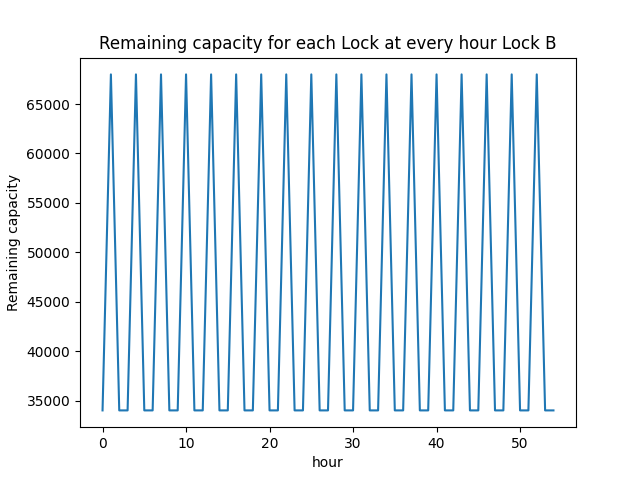
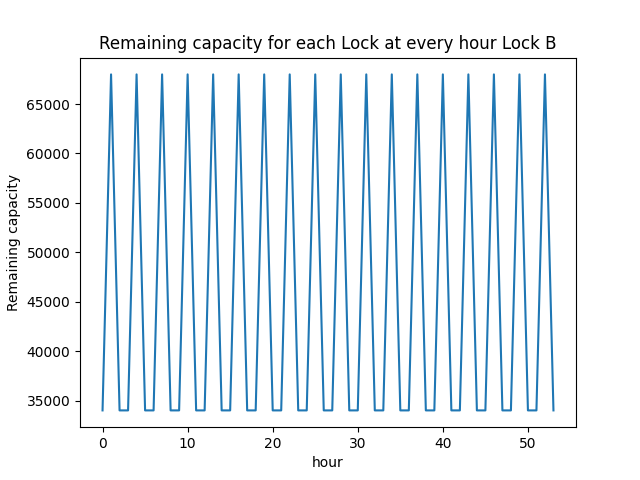
fix for the lock

diff --git a/model/atomic_devs/lock.py b/model/atomic_devs/lock.py
@@ -9,15 +9,15 @@ START_DELAY = 30
 # Define the state of the Lock as a structured object
 class LockState:
     def __init__(self, lock_id, washing_duration, lock_shift_interval, open_close_duration, surface_area):
-        # self.water_level = "LOW"
-        # self.gate1_state = "CLOSED"
-        # self.gate2_state = "OPEN"
-
+        # water level 1=High, 0=Low
         self.water_level = 0
+        # gate 0=closed, 1=open
         self.gate_sea = 0
         self.gate_dock = 1
 
         self.lock_id = lock_id
+
+        # stats for this lock
         self.washing_duration = washing_duration
         self.lock_shift_interval = lock_shift_interval
         self.open_close_duration = open_close_duration
@@ -25,41 +25,49 @@ class LockState:
         self.duration = (2 * self.open_close_duration) + washing_duration
         self.remaining_time = self.duration
         self.time_open = self.lock_shift_interval - self.duration
+        # Make sure all the ships can leave
         self.max_ship_in_lock = (self.time_open/(START_DELAY*HOUR_TO_SECOND))-1
+        # timer that the ship stays open - the time ships were leaving
         self.time_open_used = -1
 
 
         self.remaining_capacity = self.surface_area
 
-
+        # list to keep track of vessels everywhere
         self.waiting_queue_sea = []
         self.waiting_queue_dock = []
         self.in_lock = []
         self.leaving = []
+        # a ship that leaves the lock
         self.left = None
         self.leaving_bool = False
 
-        # List of request to send
-        self.requests = []
-
+        # total time
         self.current_time = 0
+        # statistic idle time
         self.idle_time = 0
+        # amount of empty itterations
         self.empty_itteration = 0
+        # the lock is empty at the moment
         self.empty = True
+        # chronometer that starts running when the lock is empty
         self.start_empty = 0
+        # remainig cappacity this hour
         self.hourly_remainig_cappacity = -1
+        # this update is because of the hour change
         self.hour_update =True
-
+        # time until the next hour change
         self.hour_remaining = 1
-        self.closegate = False
+
+
 class Lock(AtomicDEVS):
     def __init__(self, lock_id, washing_duration, lock_shift_interval, open_close_duration, surface_area):
         AtomicDEVS.__init__(self, "Lock")
         self.state = LockState(lock_id, washing_duration, lock_shift_interval, open_close_duration, surface_area)
-
+        # ports for vessels that enter the lock from the sea and travel to the dock
         self.in_port_sea = self.addInPort("in_port_sea")
         self.out_port_dock = self.addOutPort("out_port_dock")
-
+        # ports for vessels that enter the lock from the dock and travel to the sea
         self.in_port_dock = self.addInPort("in_port_dock")
         self.out_port_sea = self.addOutPort("out_port_sea")
 
@@ -74,48 +82,37 @@ class Lock(AtomicDEVS):
             self.state.hour_update = False
             self.state.current_time += self.state.hour_remaining
             self.state.remaining_time -= self.state.hour_remaining
-            if self.state.remaining_time < 0 or self.state.hour_remaining < 0:
-                print("aaaaaaaaaaaaaaaaaaaaaaaaaaaaaaaaaaaaa")
 
             if self.state.time_open_used != -1:
                 self.state.time_open_used -= self.state.hour_remaining
-                if self.state.time_open_used < 0 and self.state.time_open_used != -1:
-                    print("bbbbbbbbbbbbbbbbbbbbbbbbbbbbbbbbbbbbbbbbbbbbbb")
             return self.state
         # else:
         #     self.state.hour_remaining -= self.state.remaining_time
 
         # ships are leaving takeing 30s each
         self.state.current_time += self.state.remaining_time
-        if self.state.remaining_time < 0 or self.state.hour_remaining<0:
-            print("aaaaaaaaaaaaaaaaaaaaaaaaaaaaaaaaaaaaa")
         if self.state.leaving_bool:
             self.state.time_open_used -= self.state.remaining_time
 
-            if self.state.time_open_used < 0 and self.state.time_open_used != -1:
-                print("bbbbbbbbbbbbbbbbbbbbbbbbbbbbbbbbbbbbbbbbbbbbbb")
             # ships are still leaving
             if len(self.state.leaving) > 0:
                 # remove the ship
                 self.state.left = self.state.leaving.pop(0)
                 # the delay is 30 seconds
                 self.state.remaining_time = START_DELAY * HOUR_TO_SECOND
-                if self.state.remaining_time < 0 or self.state.hour_remaining < 0:
-                    print("aaaaaaaaaaaaaaaaaaaaaaaaaaaaaaaaaaaaa")
                 # the delay of leaving a ship is subtracted from the time the gate stays open
             # no ships to leave
             else:
                 self.state.leaving_bool = False
                 # wait the remaining time the gate stays open
                 self.state.remaining_time = self.state.time_open_used
-                if self.state.remaining_time < 0 or self.state.hour_remaining < 0:
-                    print("aaaaaaaaaaaaaaaaaaaaaaaaaaaaaaaaaaaaa")
                 self.state.time_open_used=-1
         # No ships are leaving
         else:
             # if the gate closes:
             if self.state.gate_sea == 1 or self.state.gate_dock == 1:
-
+                if len(self.state.in_lock)>0:
+                    print(self.state.current_time)
                 self.state.max_ship_in_lock = (self.state.time_open/(START_DELAY*HOUR_TO_SECOND))-1
                 if self.state.hourly_remainig_cappacity == -1:
                     self.state.hourly_remainig_cappacity =0
@@ -128,8 +125,6 @@ class Lock(AtomicDEVS):
                 self.state.gate_dock = 0
                 # set the remaining time to the duration of the shift
                 self.state.remaining_time = self.state.duration
-                if self.state.remaining_time < 0 or self.state.hour_remaining < 0:
-                    print("aaaaaaaaaaaaaaaaaaaaaaaaaaaaaaaaaaaaa")
             # if the gate opens
             else:
                 #  if the waterlevel changes to HIGH
@@ -157,19 +152,13 @@ class Lock(AtomicDEVS):
                     if len(self.state.leaving) > 0:
                         self.state.left = self.state.leaving.pop(0)
                         self.state.remaining_time = START_DELAY*HOUR_TO_SECOND
-                        if self.state.remaining_time < 0 or self.state.hour_remaining < 0:
-                            print("aaaaaaaaaaaaaaaaaaaaaaaaaaaaaaaaaaaaa")
                         self.state.time_open_used = self.state.time_open
 
-                        if self.state.time_open_used < 0 and self.state.time_open_used != -1:
-                            print("bbbbbbbbbbbbbbbbbbbbbbbbbbbbbbbbbbbbbbbbbbbbbb")
                         self.state.leaving_bool = True
                     # no ships need to leave
                     else:
                         self.state.remaining_time = self.state.time_open
 
-                        if self.state.remaining_time < 0 or self.state.hour_remaining < 0:
-                            print("aaaaaaaaaaaaaaaaaaaaaaaaaaaaaaaaaa")
 
                 #  if the waterlevel changes to LOW
                 else:
@@ -230,15 +219,21 @@ class Lock(AtomicDEVS):
                 self.state.empty = False
 
                 # gate at sea open and there is capacity
-                if self.state.water_level == 1 &\
-                        self.state.gate_sea == 1 &\
-                        self.state.remaining_capacity >= vessel.surface_area:
+                if self.state.water_level == 1:
+                    if self.state.gate_sea == 1:
+                        if self.state.remaining_capacity >= vessel.surface_area:
 
-                    if self.state.max_ship_in_lock > 0:
-                        self.state.max_ship_in_lock -= 1
-                        # go in lock
-                        self.state.in_lock.append(vessel)
-                        self.state.remaining_capacity -= vessel.surface_area
+                            if self.state.max_ship_in_lock > 0:
+                                self.state.max_ship_in_lock -= 1
+                                # go in lock
+                                self.state.in_lock.append(vessel)
+                                self.state.remaining_capacity -= vessel.surface_area
+                            else:
+                                self.state.waiting_queue_sea.append(vessel)
+                        else:
+                            self.state.waiting_queue_sea.append(vessel)
+                    else:
+                        self.state.waiting_queue_sea.append(vessel)
 
                 # else wait in queue
                 else:
@@ -252,16 +247,25 @@ class Lock(AtomicDEVS):
                 self.state.empty = False
 
                 # gate at dock open and there is capacity
-                if self.state.water_level == 0 &\
-                        self.state.gate_dock == 1 &\
-                        self.state.remaining_capacity >= vessel.surface_area:
-                    # go in lock
+                if self.state.water_level == 0:
+                    if self.state.gate_dock == 1:
+                        if self.state.remaining_capacity >= vessel.surface_area:
+                            # go in lock
 
-                    if self.state.max_ship_in_lock > 0:
-                        self.state.max_ship_in_lock -= 1
-                        self.state.in_lock.append(vessel)
+                            if self.state.max_ship_in_lock > 0:
+                                self.state.max_ship_in_lock -= 1
+                                self.state.in_lock.append(vessel)
 
-                        self.state.remaining_capacity -= vessel.surface_area
+                                self.state.remaining_capacity -= vessel.surface_area
+
+                            else:
+                                self.state.waiting_queue_dock.append(vessel)
+
+                        else:
+                            self.state.waiting_queue_dock.append(vessel)
+
+                    else:
+                        self.state.waiting_queue_dock.append(vessel)
 
                 # else wait in queue
                 else:
@@ -272,8 +276,6 @@ class Lock(AtomicDEVS):
         self.state.hour_update = False
 
         self.state.hour_remaining = math.floor(self.state.current_time)+1-self.state.current_time
-        if self.state.remaining_time < 0 or self.state.hour_remaining<0:
-            print("aaaaaaaaaaaaaaaaaaaaaaaaaaaaaaaaaaaaa")
         # return the remaining time that the lock will be open or closed or leaving of a ship
         if self.state.remaining_time < self.state.hour_remaining:
 

diff --git a/model/messages_events/vessel.py b/model/messages_events/vessel.py
@@ -107,7 +107,7 @@ class CrudeOilTanker(Vessel):
         super().__init__(creation_time, uuid)
         self.type = "Crude Oil Tanker"
         self.surface_area = 11007
-        self.avg_v = 10.7*KNOT_TO_KM_H
+        self.avg_v = 10.7 * KNOT_TO_KM_H
         self.max_v = 15.4 * KNOT_TO_KM_H
         self.prob = .28
 
@@ -117,7 +117,7 @@ class BulkCarrier(Vessel):
         super().__init__(creation_time, uuid)
         self.type = "Bulk Carrier"
         self.surface_area = 5399
-        self.avg_v = 12*KNOT_TO_KM_H
+        self.avg_v = 12 * KNOT_TO_KM_H
         self.max_v = 15.6 * KNOT_TO_KM_H
         self.prob = .22
 
@@ -127,7 +127,7 @@ class TugBoat(Vessel):
         super().__init__(creation_time, uuid)
         self.type = "Tug Boat"
         self.surface_area = 348
-        self.avg_v = 7.8*KNOT_TO_KM_H
+        self.avg_v = 7.8 * KNOT_TO_KM_H
         self.max_v = 10.6 * KNOT_TO_KM_H
         self.prob = .33
 
@@ -137,7 +137,7 @@ class SmallCargoFreighter(Vessel):
         super().__init__(creation_time, uuid)
         self.type = "Small Cargo Freighter"
         self.surface_area = 1265
-        self.avg_v = 6.4*KNOT_TO_KM_H
+        self.avg_v = 6.4 * KNOT_TO_KM_H
         self.max_v = 9.8 * KNOT_TO_KM_H
         self.prob = .17
 

diff --git a/model/atomic_devs/confluence.py b/model/atomic_devs/confluence.py
@@ -11,7 +11,6 @@ class ConfluenceState:
         for i in range(outputs):
             self.queue.append([])
 
-        self.current_time = 0
         self.output_number = outputs
 
 class Confluence(AtomicDEVS):
